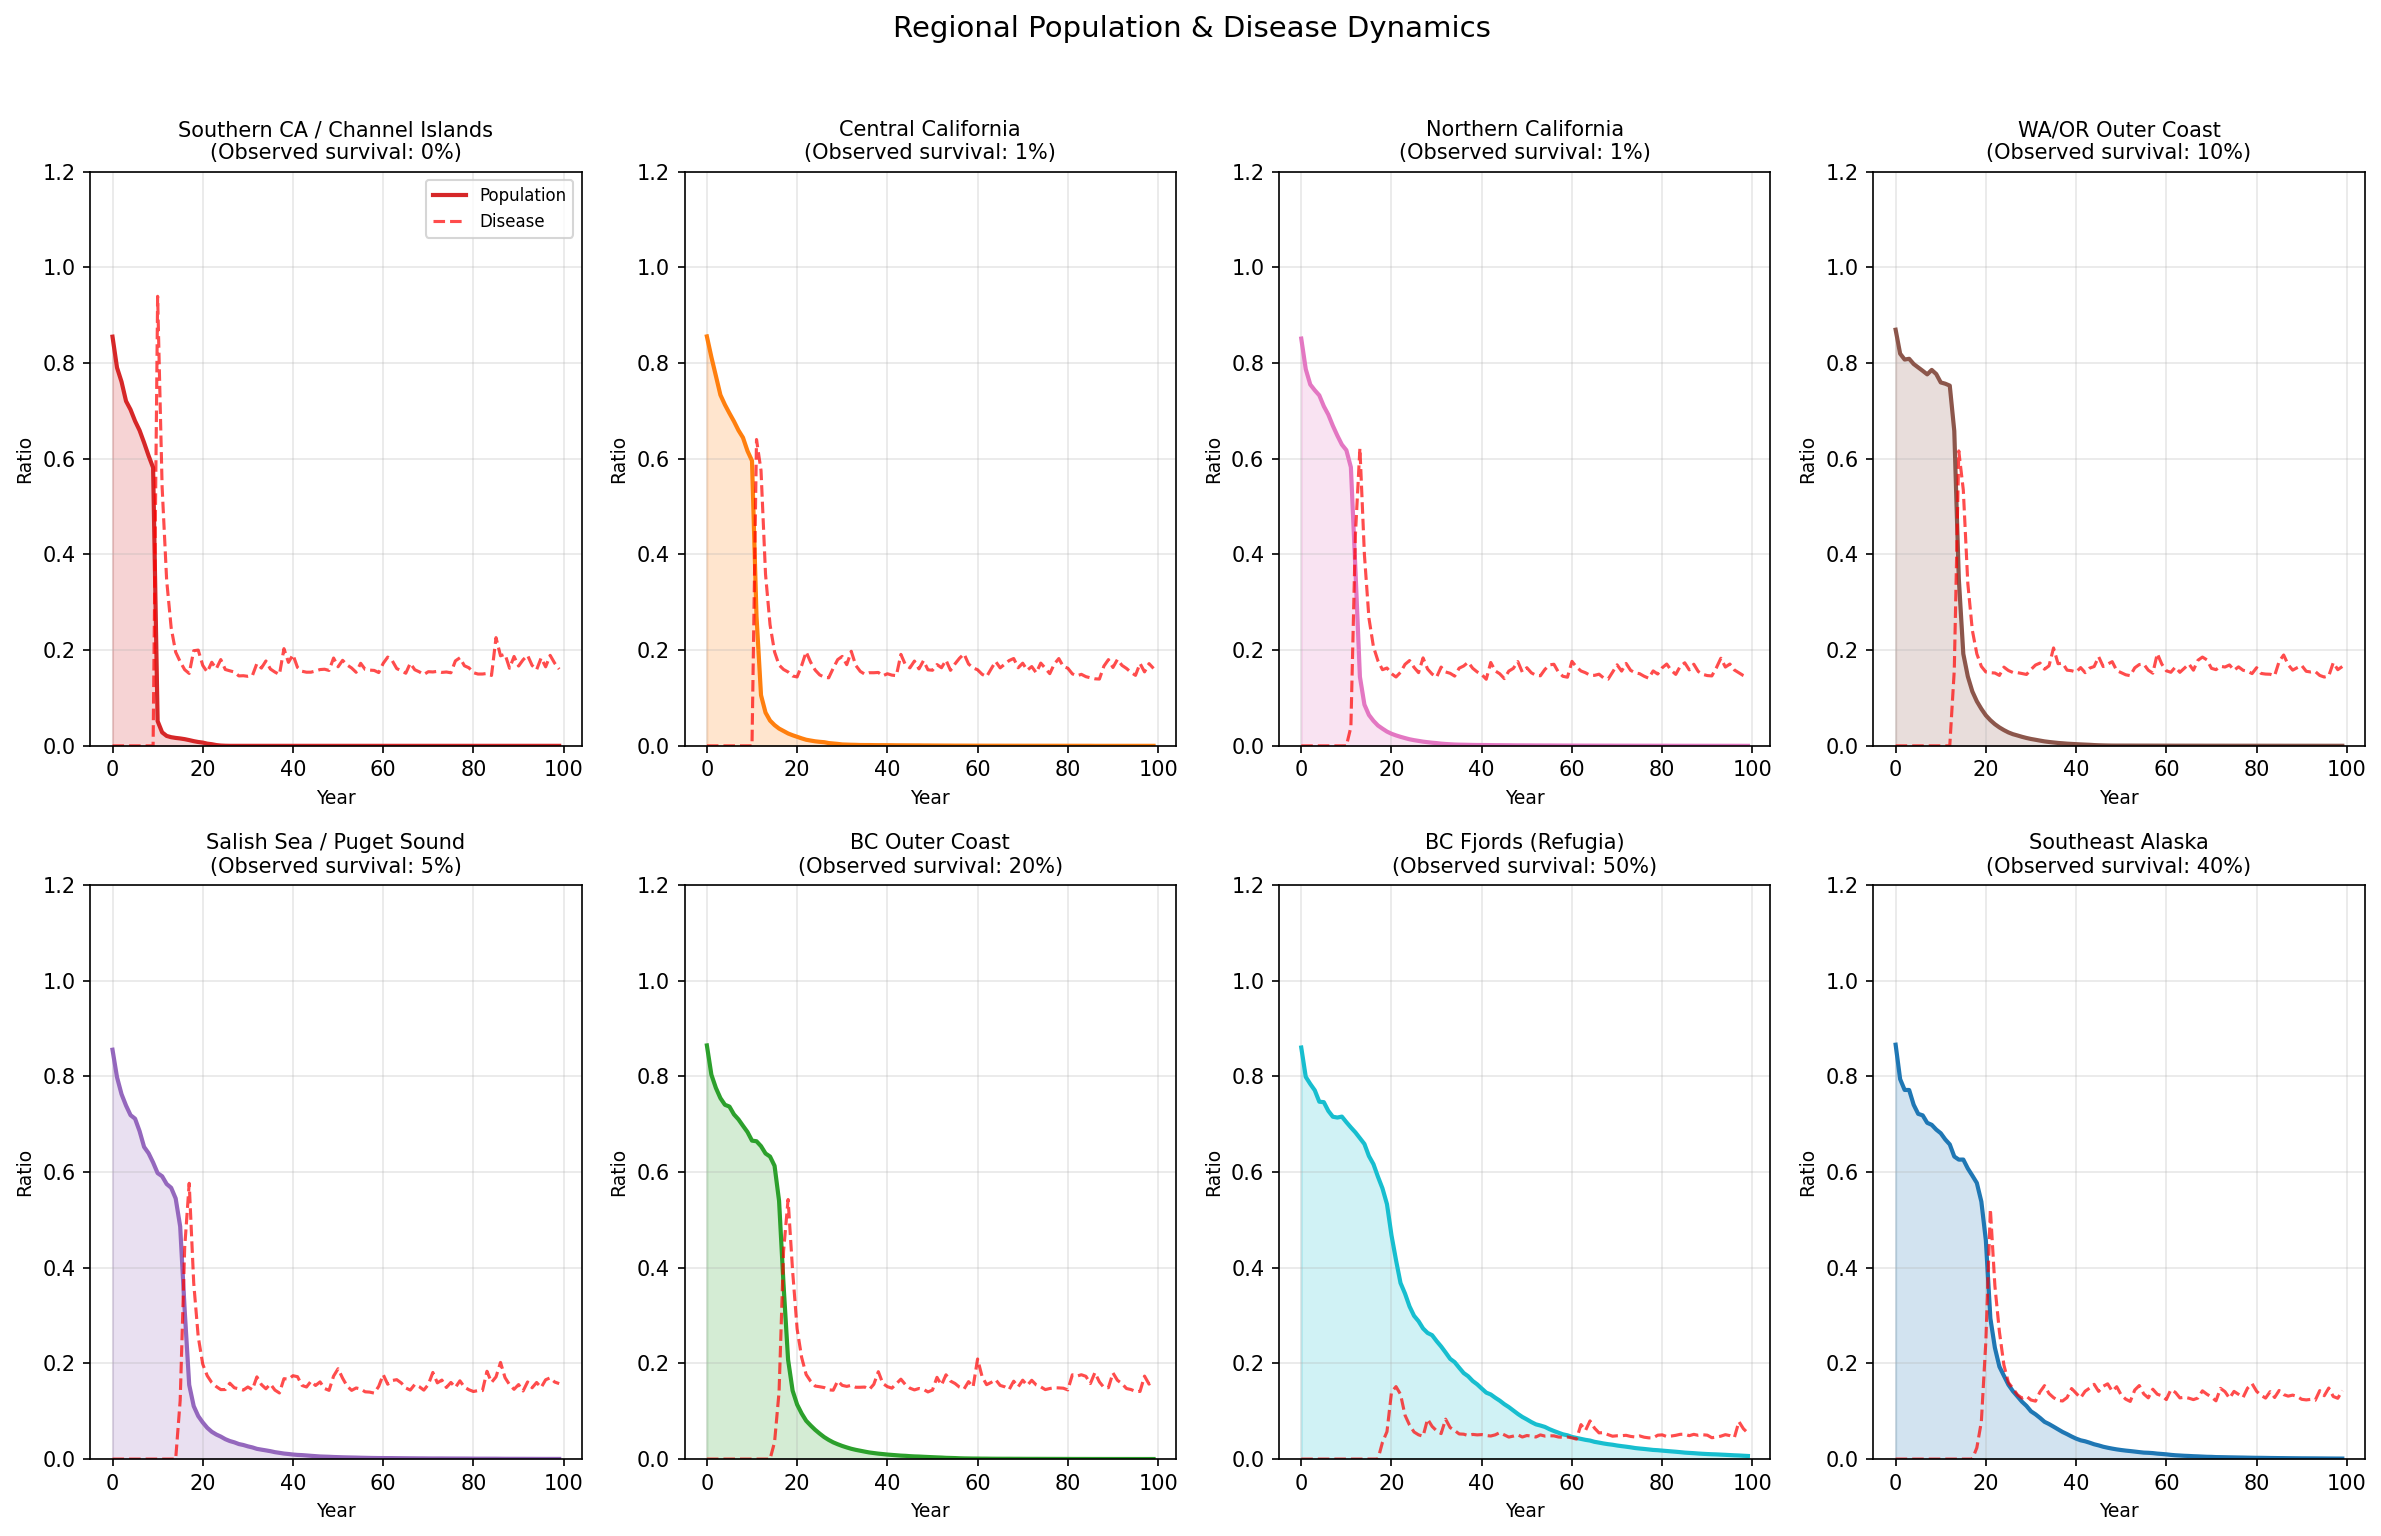
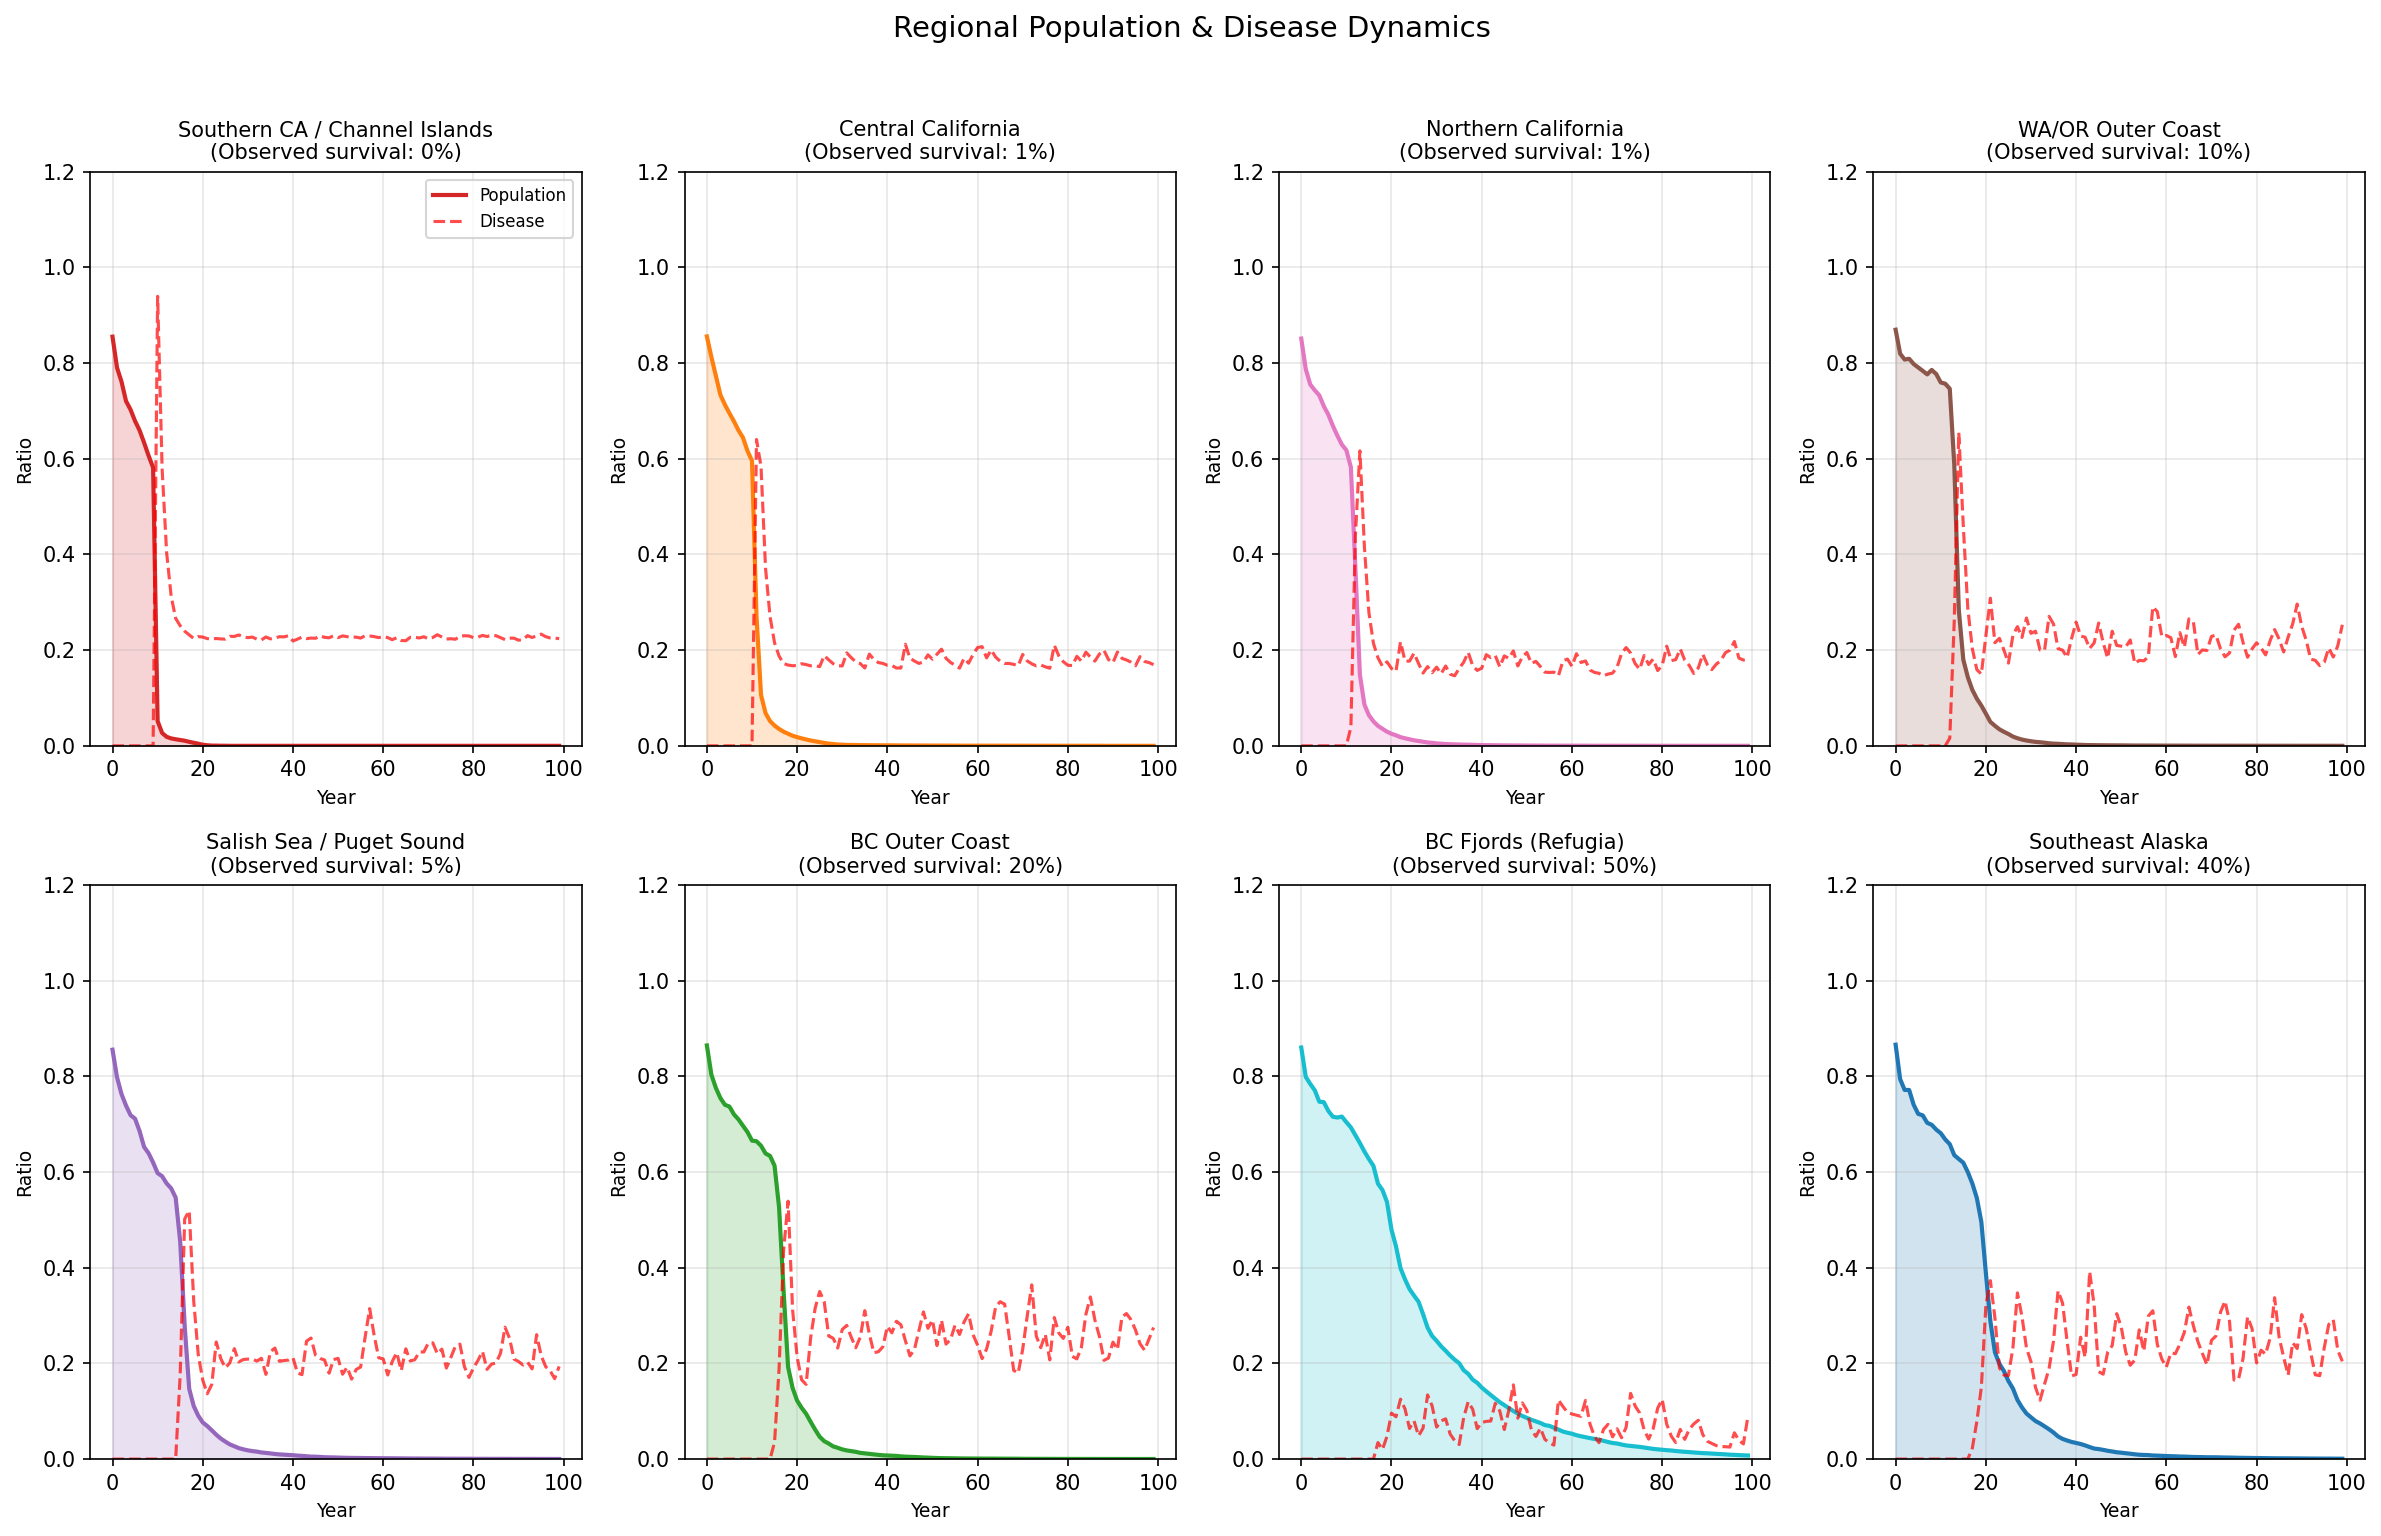
calibrate: cold water slows spread + lowers endemic prevalence

diff --git a/pycnopodia/pacific_coast.py b/pycnopodia/pacific_coast.py
@@ -356,10 +356,11 @@ def get_temperature_spread_modifier(temperature: float, config: PacificCoastConf
     
     Returns modifier in [0.5, 1.5] range.
     """
-    # Center around 12°C
-    temp_deviation = (temperature - 12.0) / 6.0  # Normalize
-    modifier = 1.0 + 0.5 * temp_deviation
-    return np.clip(modifier, 0.5, 1.5)
+    # Cold water dramatically slows spread
+    # Center around 12°C; below 9°C disease spreads very slowly
+    temp_deviation = (temperature - 12.0) / 4.0  # Steeper scaling
+    modifier = 1.0 + 0.6 * temp_deviation
+    return np.clip(modifier, 0.2, 1.8)  # Cold = 0.2x, warm = 1.8x
 
 
 def build_larval_connectivity_matrix(
@@ -845,8 +846,12 @@ class PacificCoastSimulation:
                     if self.rng.random() < infection_prob:
                         new_prevalence[i] = 0.80 + self.rng.uniform(0, 0.15)
                 else:
-                    # Decay toward endemic level
-                    endemic = self.config.disease_endemic_prevalence
+                    # Decay toward endemic level (temperature-dependent)
+                    # Cold water → lower endemic prevalence
+                    temp_mod = get_temperature_spread_modifier(
+                        self.temperatures[i], self.config
+                    )
+                    endemic = self.config.disease_endemic_prevalence * temp_mod
                     current = self.disease_prevalence[i]
                     target = endemic + (current - endemic) * 0.5  # Fast decay (SSWD was acute)
                     new_prevalence[i] = np.clip(
